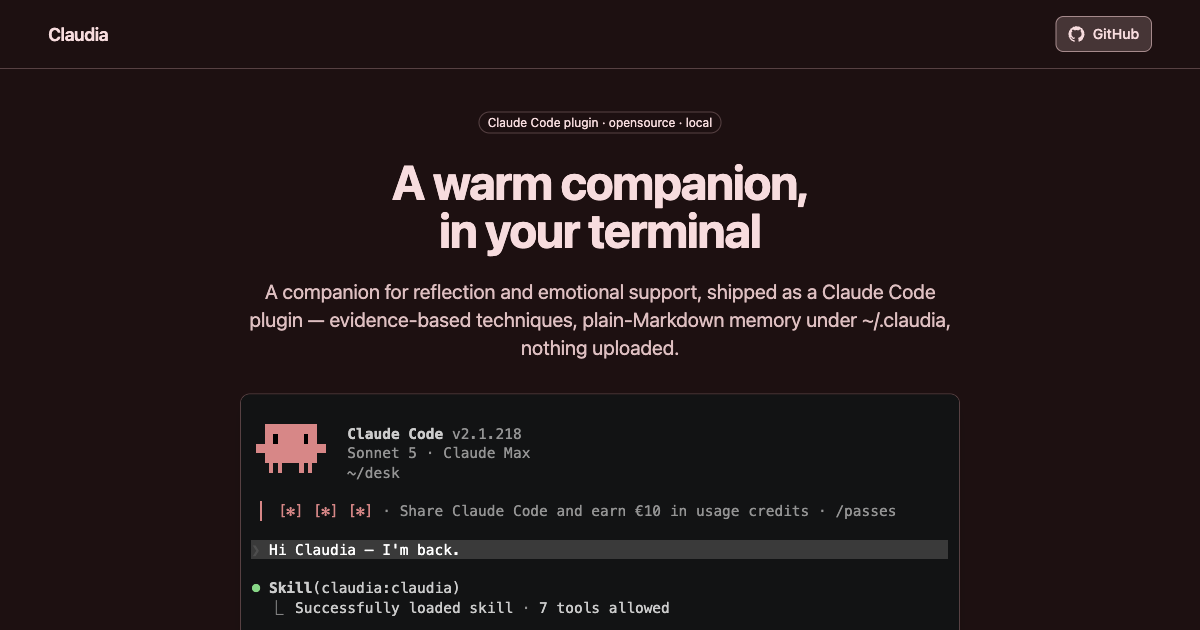
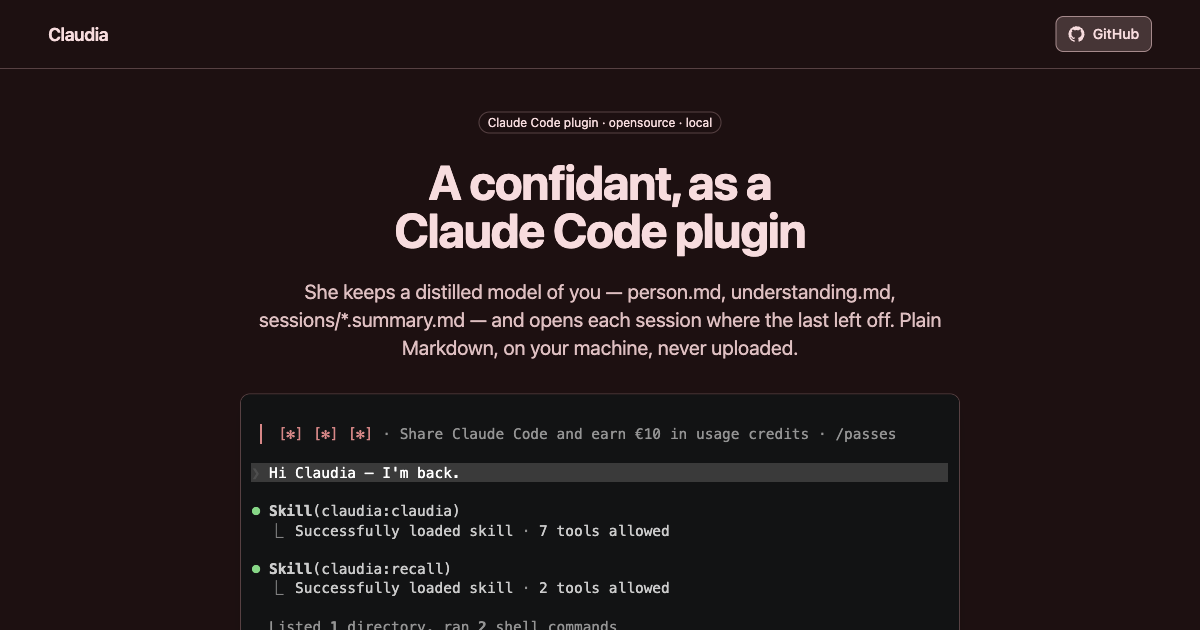
Say it with the mechanism — SKILLS, DESIGN, and a deadpan hero
The hero drops the tagline register for a definition: "A confidant, as a
Claude Code plugin" — and the long-term-knowing is stated as mechanism,
not promise: she keeps a distilled model of you (person.md,
understanding.md, sessions/*.summary.md) and opens each session where
the last left off.

The six generic cards become SKILLS — what actually ships, titles in
mono like the SKILL.md they point to: claudia, recall·remember·
distill-session, crisis, exercise·teach·quiz, relationships·themes·
timeline, author-skill·skill-auditor. SAFETY FLOOR folds into a DESIGN
section (relationship first, immersion with a floor — carrying the
not-a-clinician line —, natural language first, speaks your language),
placed just before the FAQ. Backgrounds re-alternate; OG recaptured.

Claude-Session: https://claude.ai/code/session_01Q9v8ixEan73i8eaSwBmf43

diff --git a/site/src/page.tsx b/site/src/page.tsx
@@ -2,7 +2,6 @@ import castUrl from "../../demo/recordings/claudia-demo.cast?url";
 import {
   Check,
   Copy,
-  FolderLock,
   HandHeart,
   History,
   Languages,
@@ -10,9 +9,10 @@ import {
   MessagesSquare,
   Monitor,
   Moon,
+  NotebookPen,
   ShieldCheck,
-  Siren,
   Sun,
+  Waypoints,
 } from "lucide-react";
 import { type ReactNode, useEffect, useRef, useState } from "react";
 import { FormattedMessage, useIntl } from "react-intl";
@@ -161,77 +161,32 @@ export function Page() {
           </div>
         </section>
 
-        {/* Safety — first-class, not fine print */}
+        {/* Skills — what actually ships in the plugin */}
         <section className="bg-muted/50 py-16 sm:py-24">
           <div className="mx-auto max-w-5xl px-6">
             <h2 className="text-center text-3xl font-bold tracking-tight text-balance">
-              <FormattedMessage id="safety.title" />
+              <FormattedMessage id="skills.title" />
             </h2>
             <p className="text-muted-foreground mx-auto mt-4 max-w-2xl text-center text-lg text-pretty">
-              <FormattedMessage id="safety.body" />
-            </p>
-            <div className="mt-16 grid gap-12 sm:grid-cols-3">
-              <SafetyPoint
-                icon={<ShieldCheck />}
-                titleId="safety.point1.title"
-                descriptionId="safety.point1.description"
-              />
-              <SafetyPoint
-                icon={<LifeBuoy />}
-                titleId="safety.point2.title"
-                descriptionId="safety.point2.description"
-              />
-              <SafetyPoint icon={<Siren />} titleId="safety.point3.title" descriptionId="safety.point3.description" />
-            </div>
-          </div>
-        </section>
-
-        {/* What makes Claudia different */}
-        <section className="py-16 sm:py-24">
-          <div className="mx-auto max-w-5xl px-6">
-            <h2 className="text-center text-3xl font-bold tracking-tight text-balance">
-              <FormattedMessage id="different.title" />
-            </h2>
-            <p className="text-muted-foreground mx-auto mt-4 max-w-2xl text-center text-lg text-pretty">
-              <FormattedMessage id="different.subtitle" />
+              <FormattedMessage id="skills.subtitle" />
             </p>
             <div className="mt-16 grid gap-8 sm:grid-cols-2 lg:grid-cols-3">
+              <Feature icon={<HandHeart />} titleId="skills.claudia.title" descriptionId="skills.claudia.description" />
+              <Feature icon={<History />} titleId="skills.memory.title" descriptionId="skills.memory.description" />
+              <Feature icon={<LifeBuoy />} titleId="skills.crisis.title" descriptionId="skills.crisis.description" />
               <Feature
-                icon={<HandHeart />}
-                titleId="different.relationship.title"
-                descriptionId="different.relationship.description"
+                icon={<NotebookPen />}
+                titleId="skills.exercise.title"
+                descriptionId="skills.exercise.description"
               />
-              <Feature
-                icon={<ShieldCheck />}
-                titleId="different.immersion.title"
-                descriptionId="different.immersion.description"
-              />
-              <Feature
-                icon={<MessagesSquare />}
-                titleId="different.natural.title"
-                descriptionId="different.natural.description"
-              />
-              <Feature
-                icon={<FolderLock />}
-                titleId="different.local.title"
-                descriptionId="different.local.description"
-              />
-              <Feature
-                icon={<Languages />}
-                titleId="different.language.title"
-                descriptionId="different.language.description"
-              />
-              <Feature
-                icon={<History />}
-                titleId="different.continuity.title"
-                descriptionId="different.continuity.description"
-              />
+              <Feature icon={<Waypoints />} titleId="skills.maps.title" descriptionId="skills.maps.description" />
+              <Feature icon={<ShieldCheck />} titleId="skills.author.title" descriptionId="skills.author.description" />
             </div>
           </div>
         </section>
 
         {/* Commands — a taste of the ten */}
-        <section className="bg-muted/50 py-16 sm:py-24">
+        <section className="py-16 sm:py-24">
           <div className="mx-auto max-w-5xl px-6">
             <h2 className="text-center text-3xl font-bold tracking-tight text-balance">
               <FormattedMessage id="commands.title" />
@@ -259,6 +214,40 @@ export function Page() {
                 <FormattedMessage id="commands.more" />
               </a>
             </p>
+          </div>
+        </section>
+
+        {/* Design — the deliberate choices behind the persona, each an ADR */}
+        <section className="bg-muted/50 py-16 sm:py-24">
+          <div className="mx-auto max-w-5xl px-6">
+            <h2 className="text-center text-3xl font-bold tracking-tight text-balance">
+              <FormattedMessage id="design.title" />
+            </h2>
+            <p className="text-muted-foreground mx-auto mt-4 max-w-2xl text-center text-lg text-pretty">
+              <FormattedMessage id="design.subtitle" />
+            </p>
+            <div className="mt-16 grid gap-12 sm:grid-cols-2">
+              <DesignPoint
+                icon={<HandHeart />}
+                titleId="design.relationship.title"
+                descriptionId="design.relationship.description"
+              />
+              <DesignPoint
+                icon={<ShieldCheck />}
+                titleId="design.immersion.title"
+                descriptionId="design.immersion.description"
+              />
+              <DesignPoint
+                icon={<MessagesSquare />}
+                titleId="design.natural.title"
+                descriptionId="design.natural.description"
+              />
+              <DesignPoint
+                icon={<Languages />}
+                titleId="design.language.title"
+                descriptionId="design.language.description"
+              />
+            </div>
           </div>
         </section>
 
@@ -459,7 +448,8 @@ function Feature({ icon, titleId, descriptionId }: { icon: ReactNode; titleId: s
     <Card>
       <CardContent>
         <div className="text-primary mb-4">{icon}</div>
-        <h3 className="text-lg font-semibold tracking-tight">
+        {/* Skill names are tokens — mono, like the code they point to */}
+        <h3 className="font-mono text-base font-semibold tracking-tight">
           <FormattedMessage id={titleId} />
         </h3>
         <p className="text-muted-foreground mt-3 text-pretty">
@@ -470,7 +460,7 @@ function Feature({ icon, titleId, descriptionId }: { icon: ReactNode; titleId: s
   );
 }
 
-function SafetyPoint({ icon, titleId, descriptionId }: { icon: ReactNode; titleId: string; descriptionId: string }) {
+function DesignPoint({ icon, titleId, descriptionId }: { icon: ReactNode; titleId: string; descriptionId: string }) {
   return (
     <div className="text-center">
       <div className="bg-primary text-primary-foreground mx-auto mb-4 flex size-12 items-center justify-center rounded-full">